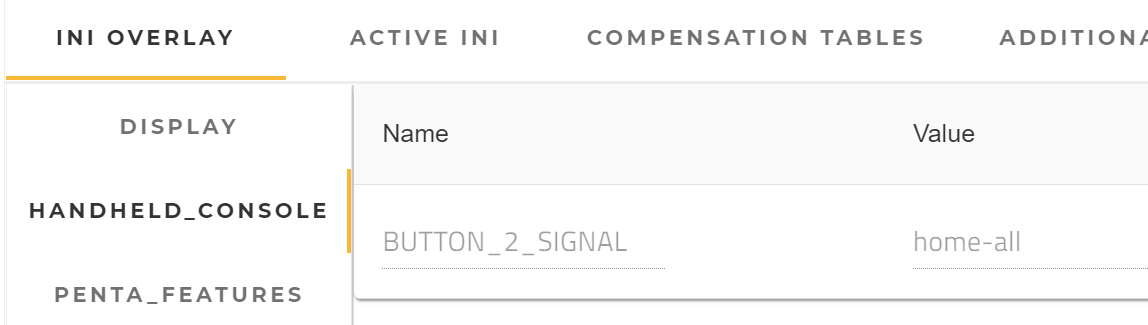
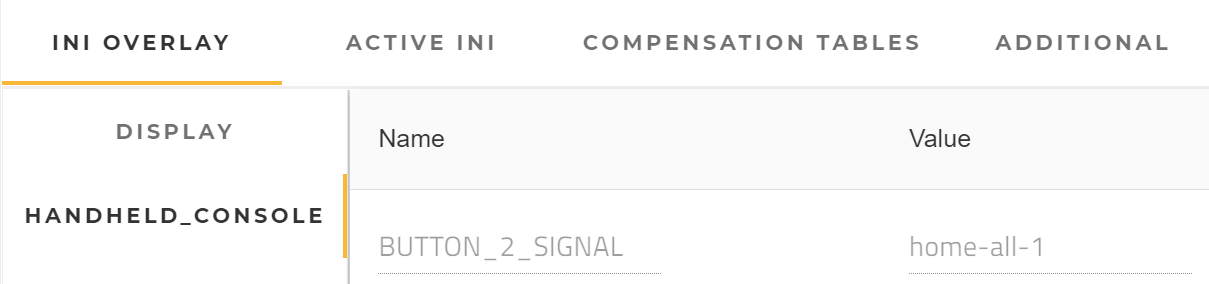
add home all example (#5)

diff --git a/src/made-with-cnc/hand-held-consoles/penta-machines/index.rst b/src/made-with-cnc/hand-held-consoles/penta-machines/index.rst
@@ -165,9 +165,18 @@ Jogging in mm increments
 
    Jogging in mm increments
 
+AUX Home All
+************************
 
-.. note:: 
-    Examples on configuring the Aux button is reserved for a future release of Kinetic Control UI
+#. Click on the ``HANDHELD_CONSOLE`` section to select it
+#. Click the ``+`` under ``Name`` in the panel to the right of ``HANDHELD_CONSOLE``
+#. Name the entry ``BUTTON_2_SIGNAL``
+#. Enter the value of ``home-all-1``
+#. Click ``Save``
 
+.. figure:: /images/kinetic-control-ui-hand-held-console-home-all.png
+   :align: center
+   :alt: AUX Home All
 
+   AUX Home All
    
